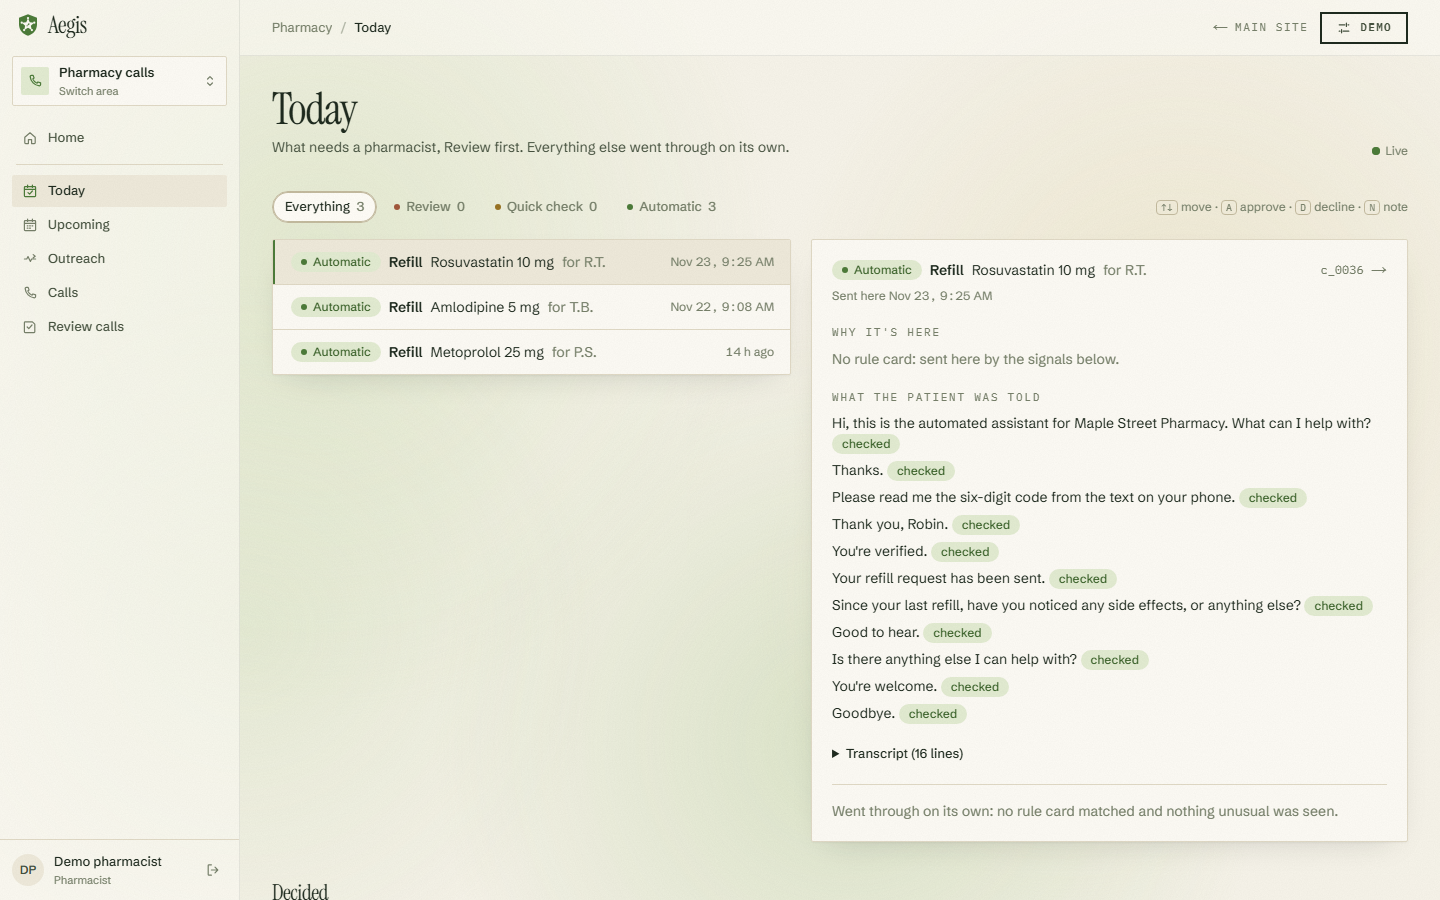
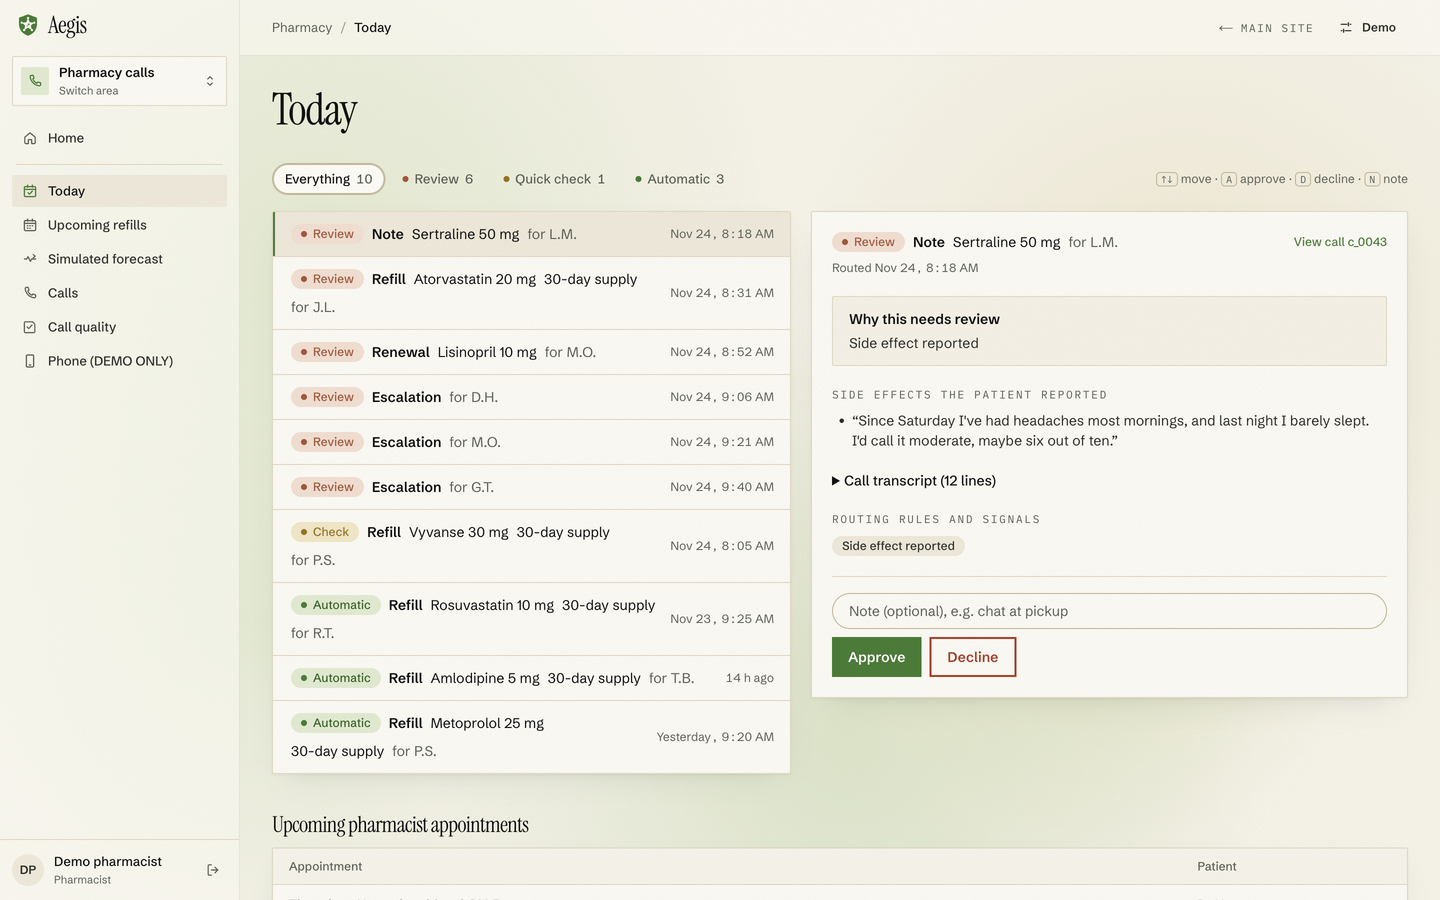
README: screenshots of the current design (pharmacist queue and the live lock)
Recaptured docs/images from the running app after the Hack Western redesign:
landing, pharmacist Today queue (seeded demo history), stage view with a
hijack attempt stopped by rule 4b and speech rule S4, and the patient phone.

diff --git a/README.md b/README.md
@@ -37,6 +37,14 @@ flowchart LR
   Attacks[Scenarios and attacks] --> Agent
 ```
 
+## Screenshots
+
+![The pharmacist's Today queue: calls that need review, with the reason, what the patient said, and Approve or Decline](docs/images/console.png)
+<sub><b>Pharmacy · Today.</b> Only the calls that need a pharmacist, with the reason, what the patient said and the transcript. Seeded demo history; every patient is made up.</sub>
+
+![The stage view: a compromised AI tries to say "It's approved and on its way." and speech rule S4 replaces the line](docs/images/stage.png)
+<sub><b>The lock, live.</b> A compromised AI tries to refill a controlled drug early. Rule 4b stops the refill at the gate, and speech rule S4 replaces "It's approved and on its way."</sub>
+
 ## Stack
 
 | Part | Built with |
